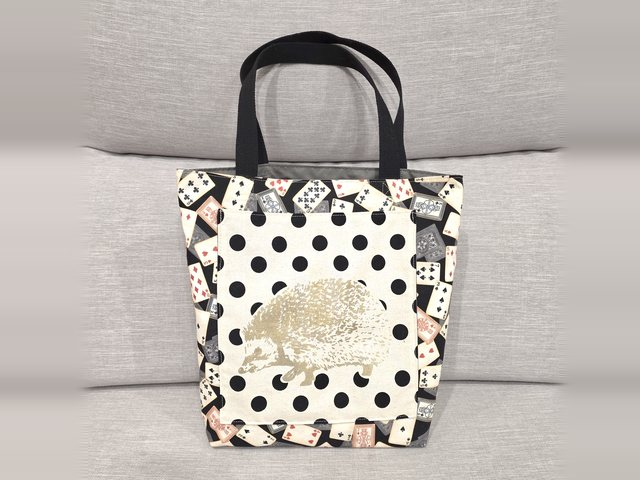
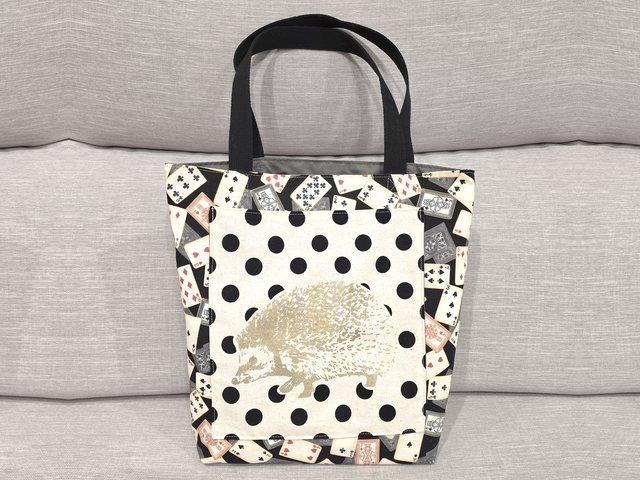
更新筆袋、化妝包照片，修正豪豬托特包封面
- 芭蕾舞伶、頑皮大象筆袋改用正面當封面並加入背面照
- 北極熊化妝包改用原圖重新處理，修正切頂並提亮封面
- 移除小熊化妝包重複照與貝殼皮革包紙型圖
- 豪豬托特包封面兩側改為自然的沙發背景

Changed region(s): [[0.0, 0.0312, 1.0, 1.0], [0.2188, 0.9375, 0.3125, 1.0], [0.1562, 0.5625, 0.1875, 0.5938]]

diff --git a/index.html b/index.html
@@ -155,7 +155,7 @@ footer b{font-family:"Noto Serif TC",serif;font-weight:600;color:var(--wine);fon
 </div>
 <script>
 {
-const WORKS=[{"c": "紅包袋", "n": "金色祥雲紅包袋", "y": "2024", "d": "紅底金色祥雲，掀蓋內側是粉金色和風花布。", "p": [["hb-cloud-1.jpg", ""], ["hb-cloud-2.jpg", "打開"]]}, {"c": "紅包袋", "n": "祥雲流蘇紅包袋", "y": "2019", "d": "紅底金色祥雲，壓扣下方垂著一條金色流蘇。", "p": [["hb-yunliu-1.jpg", ""]]}, {"c": "紅包袋", "n": "浪花紅包袋", "y": "2019", "d": "紅底金色浪花紋，配上小金魚圖案。", "p": [["hb-wave-1.jpg", ""]]}, {"c": "紅包袋", "n": "龍紋紅包袋", "y": "2024", "d": "紅色龍紋緞面，掀蓋內側是金色浪花布。", "p": [["hb-dragon-1.jpg", ""], ["hb-dragon-2.jpg", "打開"], ["hb-dragon-3.jpg", "同款三個"]]}, {"c": "紅包袋", "n": "龍鳳呈祥緞面紅包袋", "y": "2018", "d": "紅色緞面織著金色龍鳳。", "p": [["hb-longfeng-1.jpg", ""]]}, {"c": "紅包袋", "n": "萬事如意緞面紅包袋", "y": "2018", "d": "紅色緞面織著萬字紋，取「萬事如意」的好兆頭。", "p": [["hb-wanshi-1.jpg", ""]]}, {"c": "紅包袋", "n": "壽字花紋緞面紅包袋", "y": "2024", "d": "紅色緞面上織著壽字和花朵，內側配金色浪紋布。", "p": [["hb-shou-1.jpg", ""], ["hb-shou-2.jpg", "打開"], ["hb-shou-3.jpg", "同款兩個"]]}, {"c": "紅包袋", "n": "點點梅枝緞面紅包袋", "y": "2018", "d": "紅色緞面上點綴梅花枝。", "p": [["hb-meizhi-1.jpg", ""]]}, {"c": "紅包袋", "n": "紅底金花紅包袋", "y": "2019", "d": "紅色布料上點綴金色小花。", "p": [["hb-jinhua-1.jpg", ""]]}, {"c": "紅包袋", "n": "紅花紅包袋", "y": "2024", "d": "白底大紅花朵布料，掀蓋內側是橘紅色花布。", "p": [["hb-honghua-1.jpg", ""], ["hb-honghua-2.jpg", "打開"], ["hb-honghua-3.jpg", "同款兩個"]]}, {"c": "紅包袋", "n": "牡丹紅包袋", "y": "2019", "d": "大朵牡丹與和風紋樣拼在一起。", "p": [["hb-mudan-1.jpg", ""]]}, {"c": "紅包袋", "n": "大象紅包袋", "y": "2018", "d": "一排白色小象，其中一隻穿著條紋衣，掀蓋內側是青海波紋。", "p": [["hb-elephant-1.jpg", ""], ["hb-elephant-2.jpg", "打開"], ["hb-pair-3.jpg", "和櫻花蝴蝶紅包袋同一批"]]}, {"c": "紅包袋", "n": "櫻花蝴蝶紅包袋", "y": "2018", "d": "粉色櫻花與藍色蝴蝶，掀蓋內側是青海波紋。", "p": [["hb-sakura-1.jpg", ""], ["hb-sakura-2.jpg", "打開"], ["hb-pair-3.jpg", "和大象紅包袋同一批"]]}, {"c": "紅包袋", "n": "蝴蝶櫻花紅包袋", "y": "2019", "d": "紅底上的蝴蝶與櫻花，和風感十足。", "p": [["hb-hudie-1.jpg", ""]]}, {"c": "紅包袋", "n": "粉紅蝴蝶紅包袋", "y": "2019", "d": "粉紅色調的蝴蝶與花朵印花。", "p": [["hb-pink-1.jpg", ""]]}, {"c": "筆袋", "n": "鯨魚筆袋", "y": "2025", "d": "深藍底上有鯨魚、章魚和海馬，三角立體的筆袋形狀。", "p": [["27.jpg", ""], ["28.jpg", ""], ["29.jpg", ""], ["30.jpg", ""]]}, {"c": "筆袋", "n": "大象筆袋", "y": "2023", "d": "民族風大象印花，搭配深藍色拉鍊口。", "p": [["26.jpg", ""]]}, {"c": "筆袋", "n": "芭蕾舞伶筆袋", "y": "2018", "d": "黑底芭蕾女孩印花，粉紅色拉鍊和內裡，寬口設計打開來一目了然。", "p": [["19.jpg", ""], ["20.jpg", ""], ["21.jpg", ""]]}, {"c": "筆袋", "n": "頑皮大象筆袋", "y": "2018", "d": "黑底大象圖案配上螢光綠拉鍊和點點內裡，和芭蕾舞伶筆袋是同一批作品。", "p": [["22.jpg", ""], ["23.jpg", ""], ["24.jpg", ""], ["25.jpg", ""]]}, {"c": "化妝包", "n": "北極熊化妝包", "y": "2018", "d": "粉色北極熊布料配條紋底，附長短兩條背帶，外出可以提著走。", "p": [["78.jpg", ""], ["32.jpg", ""], ["33.jpg", ""], ["34.jpg", ""], ["35.jpg", ""], ["36.jpg", ""]]}, {"c": "化妝包", "n": "小熊化妝包", "y": "2018", "d": "酒紅色小熊花布，打開是滿滿的芭蕾舞伶內裡。", "p": [["77.jpg", ""], ["37.jpg", ""], ["38.jpg", ""], ["39.jpg", ""], ["40.jpg", ""]]}, {"c": "斜背包", "n": "斑馬斜背包", "y": "2018", "d": "黑白斑馬布料搭黑色掀蓋與寬背帶，翻開是點點內裡。", "p": [["42.jpg", ""], ["41.jpg", ""], ["43.jpg", ""]]}, {"c": "斜背包", "n": "動物花園尿布包", "y": "2018", "d": "粉色動物花園印花配咖啡色皮背帶；背帶可以勾在上下兩個耳朵，依裝的多寡調整。", "p": [["44.jpg", ""], ["45.jpg", ""], ["46.jpg", "裝多時勾上面的耳朵"], ["47.jpg", "裝少時勾下面的耳朵"]]}, {"c": "皮革包", "n": "貝殼皮革包", "y": "2025", "d": "從打紙型、裁皮、做提把一路做到完成，附可拆式長背帶。", "p": [["60.jpg", ""], ["61.jpg", ""], ["62.jpg", ""], ["63.jpg", ""], ["58.jpg", ""], ["59.jpg", ""]]}, {"c": "皮革包", "n": "幾何拼接皮革包", "y": "2024", "d": "四片三角皮革拼接，麂皮和光面皮混搭；做了大款肩背包和小款手腕包。", "p": [["79.jpg", ""], ["50.jpg", ""], ["51.jpg", ""], ["52.jpg", ""], ["53.jpg", ""], ["54.jpg", ""], ["55.jpg", ""], ["56.jpg", ""], ["57.jpg", ""], ["48.jpg", ""], ["49.jpg", ""]]}, {"c": "托特包", "n": "松鼠口袋托特包", "y": "2025", "d": "正面是點點布上的金色松鼠，外圍和背面是黑白斑馬布。", "p": [["76.jpg", ""], ["65.jpg", ""], ["66.jpg", ""], ["67.jpg", ""], ["68.jpg", ""]]}, {"c": "托特包", "n": "豪豬口袋托特包", "y": "2025", "d": "正面是點點布上的金色豪豬口袋，外圍和背面拼接撲克牌圖案布。", "p": [["porcupine-1.jpg", ""], ["porcupine-2.jpg", "背面"], ["porcupine-3.jpg", "口袋"]]}];
+const WORKS=[{"c": "紅包袋", "n": "金色祥雲紅包袋", "y": "2024", "d": "紅底金色祥雲，掀蓋內側是粉金色和風花布。", "p": [["hb-cloud-1.jpg", ""], ["hb-cloud-2.jpg", "打開"]]}, {"c": "紅包袋", "n": "祥雲流蘇紅包袋", "y": "2019", "d": "紅底金色祥雲，壓扣下方垂著一條金色流蘇。", "p": [["hb-yunliu-1.jpg", ""]]}, {"c": "紅包袋", "n": "浪花紅包袋", "y": "2019", "d": "紅底金色浪花紋，配上小金魚圖案。", "p": [["hb-wave-1.jpg", ""]]}, {"c": "紅包袋", "n": "龍紋紅包袋", "y": "2024", "d": "紅色龍紋緞面，掀蓋內側是金色浪花布。", "p": [["hb-dragon-1.jpg", ""], ["hb-dragon-2.jpg", "打開"], ["hb-dragon-3.jpg", "同款三個"]]}, {"c": "紅包袋", "n": "龍鳳呈祥緞面紅包袋", "y": "2018", "d": "紅色緞面織著金色龍鳳。", "p": [["hb-longfeng-1.jpg", ""]]}, {"c": "紅包袋", "n": "萬事如意緞面紅包袋", "y": "2018", "d": "紅色緞面織著萬字紋，取「萬事如意」的好兆頭。", "p": [["hb-wanshi-1.jpg", ""]]}, {"c": "紅包袋", "n": "壽字花紋緞面紅包袋", "y": "2024", "d": "紅色緞面上織著壽字和花朵，內側配金色浪紋布。", "p": [["hb-shou-1.jpg", ""], ["hb-shou-2.jpg", "打開"], ["hb-shou-3.jpg", "同款兩個"]]}, {"c": "紅包袋", "n": "點點梅枝緞面紅包袋", "y": "2018", "d": "紅色緞面上點綴梅花枝。", "p": [["hb-meizhi-1.jpg", ""]]}, {"c": "紅包袋", "n": "紅底金花紅包袋", "y": "2019", "d": "紅色布料上點綴金色小花。", "p": [["hb-jinhua-1.jpg", ""]]}, {"c": "紅包袋", "n": "紅花紅包袋", "y": "2024", "d": "白底大紅花朵布料，掀蓋內側是橘紅色花布。", "p": [["hb-honghua-1.jpg", ""], ["hb-honghua-2.jpg", "打開"], ["hb-honghua-3.jpg", "同款兩個"]]}, {"c": "紅包袋", "n": "牡丹紅包袋", "y": "2019", "d": "大朵牡丹與和風紋樣拼在一起。", "p": [["hb-mudan-1.jpg", ""]]}, {"c": "紅包袋", "n": "大象紅包袋", "y": "2018", "d": "一排白色小象，其中一隻穿著條紋衣，掀蓋內側是青海波紋。", "p": [["hb-elephant-1.jpg", ""], ["hb-elephant-2.jpg", "打開"], ["hb-pair-3.jpg", "和櫻花蝴蝶紅包袋同一批"]]}, {"c": "紅包袋", "n": "櫻花蝴蝶紅包袋", "y": "2018", "d": "粉色櫻花與藍色蝴蝶，掀蓋內側是青海波紋。", "p": [["hb-sakura-1.jpg", ""], ["hb-sakura-2.jpg", "打開"], ["hb-pair-3.jpg", "和大象紅包袋同一批"]]}, {"c": "紅包袋", "n": "蝴蝶櫻花紅包袋", "y": "2019", "d": "紅底上的蝴蝶與櫻花，和風感十足。", "p": [["hb-hudie-1.jpg", ""]]}, {"c": "紅包袋", "n": "粉紅蝴蝶紅包袋", "y": "2019", "d": "粉紅色調的蝴蝶與花朵印花。", "p": [["hb-pink-1.jpg", ""]]}, {"c": "筆袋", "n": "鯨魚筆袋", "y": "2025", "d": "深藍底上有鯨魚、章魚和海馬，三角立體的筆袋形狀。", "p": [["27.jpg", ""], ["28.jpg", ""], ["29.jpg", ""], ["30.jpg", ""]]}, {"c": "筆袋", "n": "大象筆袋", "y": "2023", "d": "民族風大象印花，搭配深藍色拉鍊口。", "p": [["26.jpg", ""]]}, {"c": "筆袋", "n": "芭蕾舞伶筆袋", "y": "2018", "d": "黑底芭蕾女孩印花，粉紅色拉鍊和內裡，寬口設計打開來一目了然。", "p": [["ballet-1.jpg", ""], ["ballet-2.jpg", "背面"], ["19.jpg", "打開"], ["20.jpg", ""], ["21.jpg", ""]]}, {"c": "筆袋", "n": "頑皮大象筆袋", "y": "2018", "d": "黑底大象圖案配上螢光綠拉鍊和點點內裡，和芭蕾舞伶筆袋是同一批作品。", "p": [["elephant-pc-1.jpg", ""], ["elephant-pc-2.jpg", "背面"], ["22.jpg", "打開"], ["23.jpg", ""], ["24.jpg", ""], ["25.jpg", ""]]}, {"c": "化妝包", "n": "北極熊化妝包", "y": "2018", "d": "粉色北極熊布料配條紋底，附兩條背帶，外出可以提著走。", "p": [["bear-1.jpg", ""], ["bear-2.jpg", ""], ["bear-3.jpg", ""], ["34.jpg", ""], ["35.jpg", ""], ["36.jpg", ""]]}, {"c": "化妝包", "n": "小熊化妝包", "y": "2018", "d": "酒紅色小熊花布，打開是滿滿的芭蕾舞伶內裡。", "p": [["77.jpg", ""], ["38.jpg", ""], ["39.jpg", ""], ["40.jpg", ""]]}, {"c": "斜背包", "n": "斑馬斜背包", "y": "2018", "d": "黑白斑馬布料搭黑色掀蓋與寬背帶，翻開是點點內裡。", "p": [["42.jpg", ""], ["41.jpg", ""], ["43.jpg", ""]]}, {"c": "斜背包", "n": "動物花園尿布包", "y": "2018", "d": "粉色動物花園印花配咖啡色皮背帶；背帶可以勾在上下兩個耳朵，依裝的多寡調整。", "p": [["44.jpg", ""], ["45.jpg", ""], ["46.jpg", "裝多時勾上面的耳朵"], ["47.jpg", "裝少時勾下面的耳朵"]]}, {"c": "皮革包", "n": "貝殼皮革包", "y": "2025", "d": "從打紙型、裁皮、做提把一路做到完成，附可拆式長背帶。", "p": [["60.jpg", ""], ["61.jpg", ""], ["62.jpg", ""], ["63.jpg", ""], ["59.jpg", ""]]}, {"c": "皮革包", "n": "幾何拼接皮革包", "y": "2024", "d": "四片三角皮革拼接，麂皮和光面皮混搭；做了大款肩背包和小款手腕包。", "p": [["79.jpg", ""], ["50.jpg", ""], ["51.jpg", ""], ["52.jpg", ""], ["53.jpg", ""], ["54.jpg", ""], ["55.jpg", ""], ["56.jpg", ""], ["57.jpg", ""], ["48.jpg", ""], ["49.jpg", ""]]}, {"c": "托特包", "n": "松鼠口袋托特包", "y": "2025", "d": "正面是點點布上的金色松鼠，外圍和背面是黑白斑馬布。", "p": [["76.jpg", ""], ["65.jpg", ""], ["66.jpg", ""], ["67.jpg", ""], ["68.jpg", ""]]}, {"c": "托特包", "n": "豪豬口袋托特包", "y": "2025", "d": "正面是點點布上的金色豪豬口袋，外圍和背面拼接撲克牌圖案布。", "p": [["porcupine-1.jpg", ""], ["porcupine-2.jpg", "背面"], ["porcupine-3.jpg", "口袋"]]}];
 const CATS=[["紅包袋", "hongbao", "hb-meizhi-1.jpg"], ["筆袋", "pencil-case", "27.jpg"], ["化妝包", "pouch", "77.jpg"], ["斜背包", "crossbody", "42.jpg"], ["皮革包", "leather", "79.jpg"], ["托特包", "tote", "76.jpg"]];
 const $=s=>document.querySelector(s);
 const esc=s=>String(s).replace(/[&<>"]/g,c=>({"&":"&amp;","<":"&lt;",">":"&gt;",'"':"&quot;"}[c]));
